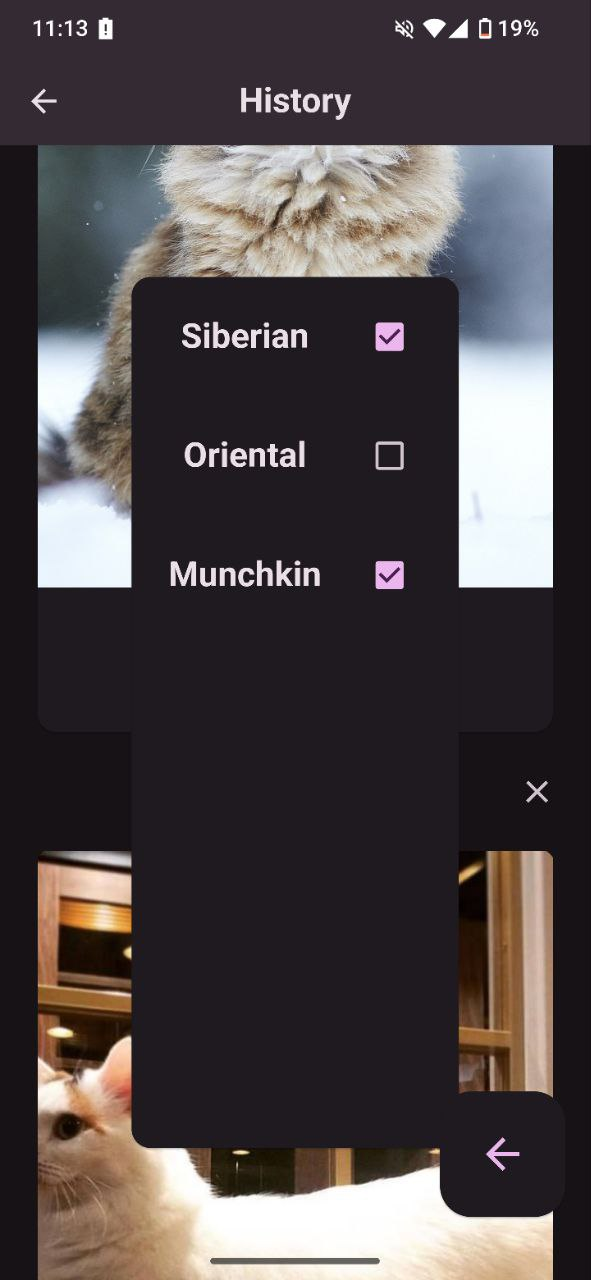
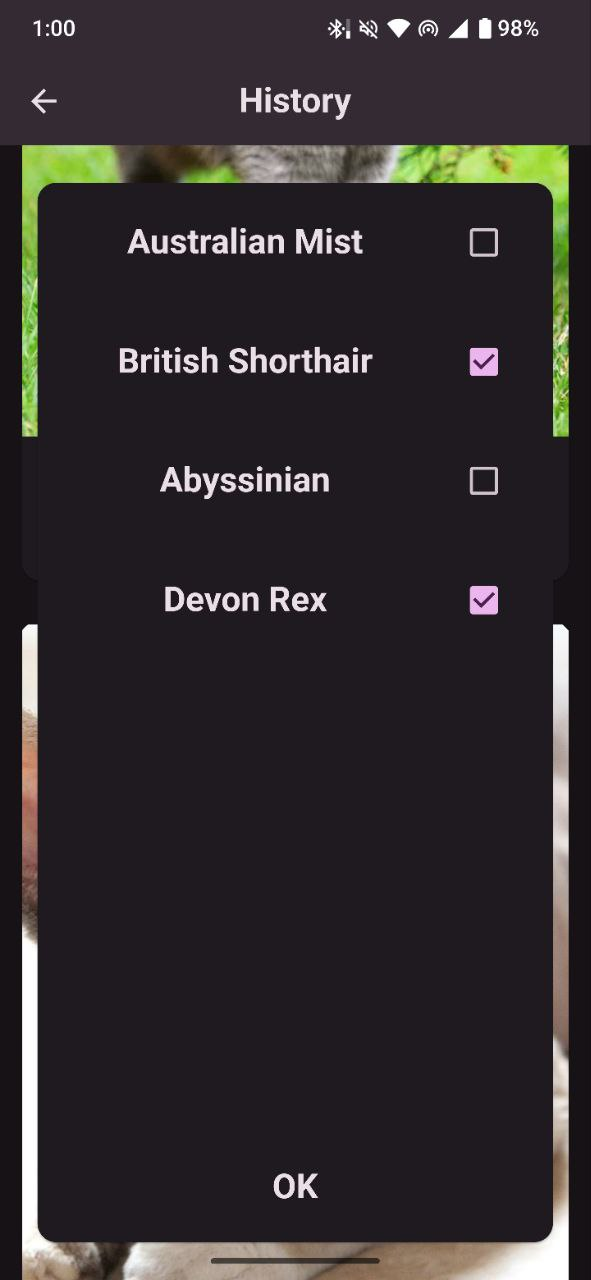
Redesign filter list

diff --git a/lib/presentation/history/filter.dart b/lib/presentation/history/filter.dart
@@ -1,10 +1,16 @@
 import 'package:app/domain/filter.dart';
 import 'package:app/presentation/util/textbox.dart';
+import 'package:app/presentation/util/textbutton.dart';
 import 'package:flutter/material.dart';
 import 'package:flutter_bloc/flutter_bloc.dart';
 
 class Filter extends StatefulWidget {
-  const Filter({super.key});
+  final Function close;
+
+  const Filter({
+    super.key,
+    required this.close,
+  });
 
   @override
   State<Filter> createState() => _FilterState();
@@ -14,25 +20,38 @@ class _FilterState extends State<Filter> {
   @override
   Widget build(BuildContext context) {
     return Padding(
-      padding: EdgeInsets.all(80),
+      padding: EdgeInsets.all(20),
       child: Center(
         child: Card(
-            child: BlocBuilder<FilterCubit, FilterState>(
-          builder: (ctx, state) => ListView(
-            children: List.from(
-              ctx.read<FilterCubit>().filterMap.entries.map(
-                (entry) => CheckboxListTile(
-                  value: entry.value,
-                  onChanged: (bool? value) {
-                    ctx.read<FilterCubit>().setBreed(entry.key, value!);
-                    setState(() {});
-                  },
-                  title: TextBox(text: entry.key),
+          child: BlocBuilder<FilterCubit, FilterState>(
+            builder: (ctx, state) => Column(
+              mainAxisSize: MainAxisSize.min,
+              children: [
+                Flexible(
+                  child: ListView(
+                    children: List.from(
+                      ctx.read<FilterCubit>().filterMap.entries.map(
+                            (entry) => CheckboxListTile(
+                              value: entry.value,
+                              onChanged: (bool? value) {
+                                ctx
+                                    .read<FilterCubit>()
+                                    .setBreed(entry.key, value!);
+                              },
+                              title: TextBox(text: entry.key),
+                            ),
+                          ),
+                    ),
+                  ),
                 ),
-              ),
+                CaTinderTextButton(
+                  text: 'OK',
+                  onPressed: () => widget.close(),
+                ),
+              ],
             ),
           ),
-        )),
+        ),
       ),
     );
   }

diff --git a/lib/presentation/util/textbutton.dart b/lib/presentation/util/textbutton.dart
@@ -1,0 +1,30 @@
+import 'package:flutter/material.dart';
+
+class CaTinderTextButton extends StatelessWidget {
+  final String text;
+  final Function onPressed;
+
+  const CaTinderTextButton({
+    super.key,
+    required this.text,
+    required this.onPressed,
+  });
+
+  @override
+  Widget build(BuildContext context) {
+    return TextButton(
+      onPressed: () {
+        onPressed();
+      },
+      style: TextButton.styleFrom(
+        minimumSize: Size(double.infinity, 70),
+      ),
+      child: Text(
+        text,
+        style: Theme.of(context).textTheme.titleLarge?.copyWith(
+              fontWeight: FontWeight.bold,
+            ),
+      ),
+    );
+  }
+}

diff --git a/lib/presentation/history/screen.dart b/lib/presentation/history/screen.dart
@@ -47,15 +47,17 @@ class _HistoryScreenState extends State<HistoryScreen> {
                       return ListView(children: likes);
                     }
                   }),
-              if (_filterShown) Filter()
+              if (_filterShown) Filter(close: _switchFilterView)
             ],
           );
         },
       ),
-      floatingActionButton: Button(
-        onPressed: _switchFilterView,
-        icon: _filterShown ? Icons.arrow_back : Icons.menu,
-      ),
+      floatingActionButton: !_filterShown
+          ? Button(
+              onPressed: _switchFilterView,
+              icon: Icons.menu,
+            )
+          : null,
     );
   }
 }
